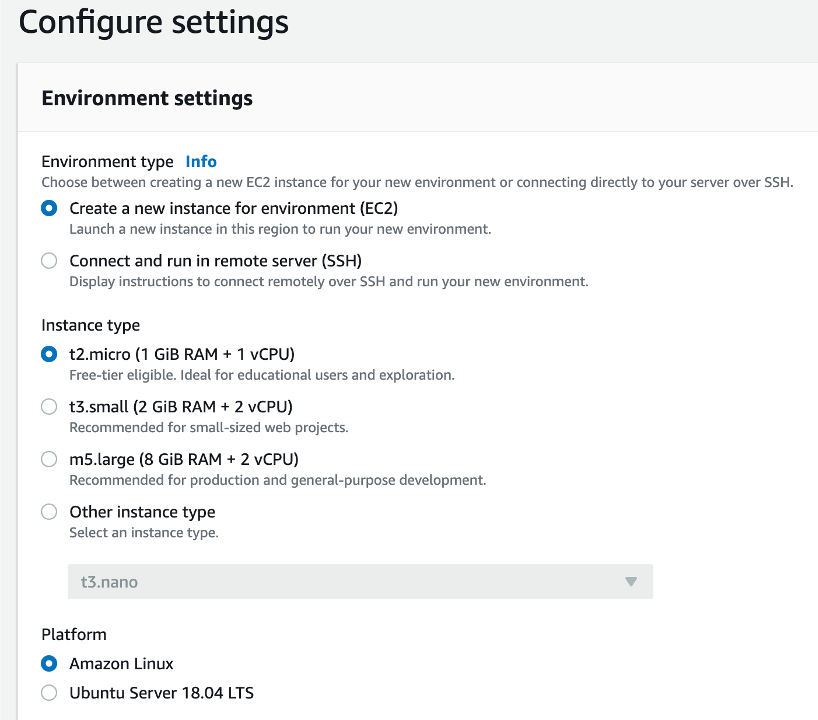
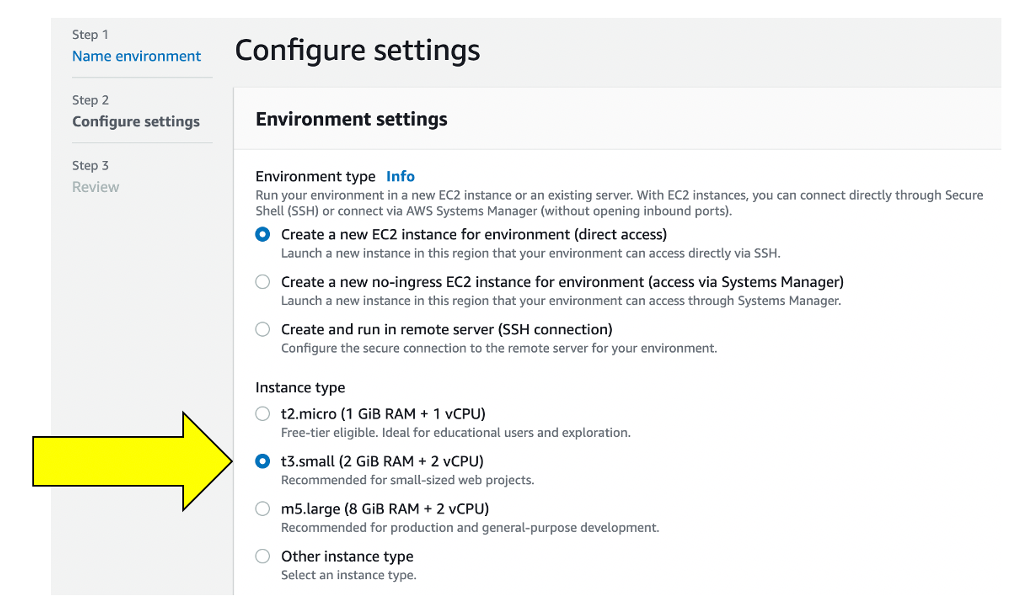
update to choose t2.micro vs the default cloud9 environment

Changed region(s): [[0.0306, 0.0, 0.978, 0.8721], [0.0306, 0.8721, 0.3973, 0.9967], [0.7641, 0.7787, 0.7946, 0.8098]]

diff --git a/content/15_workshop_setup/10_cloud9.md b/content/15_workshop_setup/10_cloud9.md
@@ -26,7 +26,7 @@ weight: 10
 
 ![image](/images/c9-name.png)
 
-5 . Keep the default settings and create the environment
+5 . To avoid an error of **t2.micro** not being available in all availability zones of **us-west-2**, choose the **t3-small** option.  Keep the remaining default settings and create the environment
 
 ![image](/images/c9-settings.png)
 
